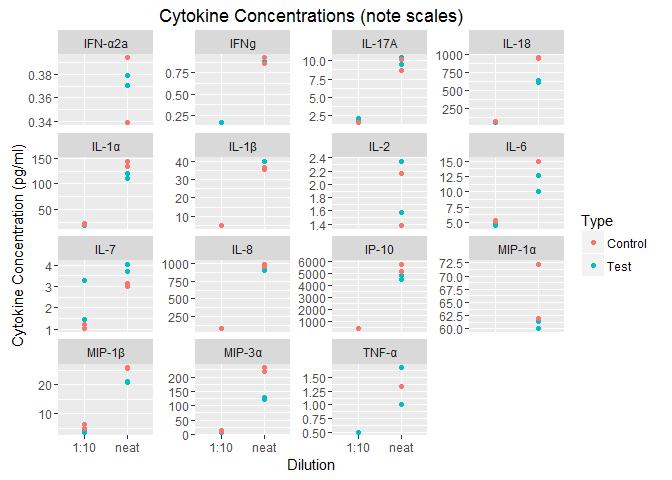
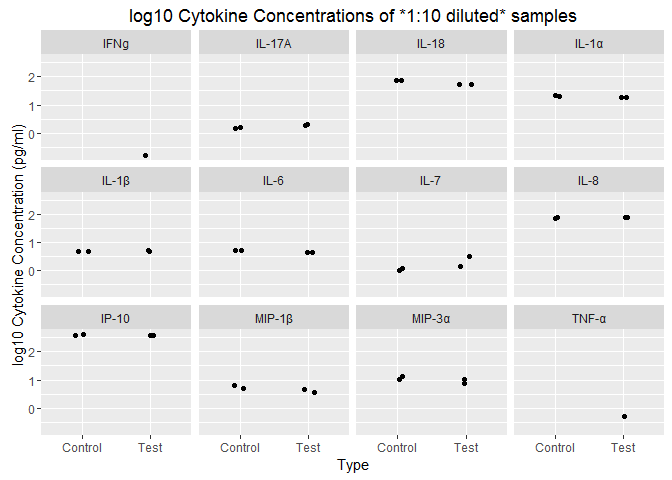
added plots of standard curves with samples on top

diff --git a/schiffer_transport_media_test.md b/schiffer_transport_media_test.md
@@ -135,7 +135,7 @@ For some cytokines, some of the sample concentrations fell below the detection r
 <th align="center">Assay</th>
 <th align="center">Type</th>
 <th align="center">Dilution</th>
-<th align="center">Detection Range</th>
+<th align="center">Detection.Range</th>
 <th align="center">Samples</th>
 </tr>
 </thead>
@@ -296,4 +296,8 @@ Note that the concentrations are plotted on a *log 10* scale.
 
 Some conditions are missing dots: these are ones where the concentration was below the level of detection.
 
-![](schiffer_transport_media_test_files/figure-markdown_github/all%20concentrations-1.png)![](schiffer_transport_media_test_files/figure-markdown_github/all%20concentrations-2.png)
+![](schiffer_transport_media_test_files/figure-markdown_github/plot%20diluted-1.png)
+
+![](schiffer_transport_media_test_files/figure-markdown_github/plot%20neat-1.png)
+
+![](schiffer_transport_media_test_files/figure-markdown_github/plotting%20standards%20and%20samples-1.png)
